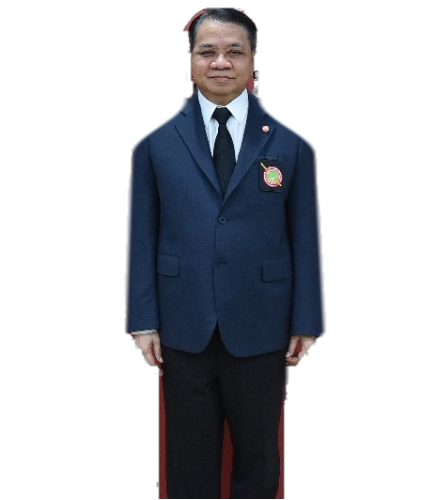
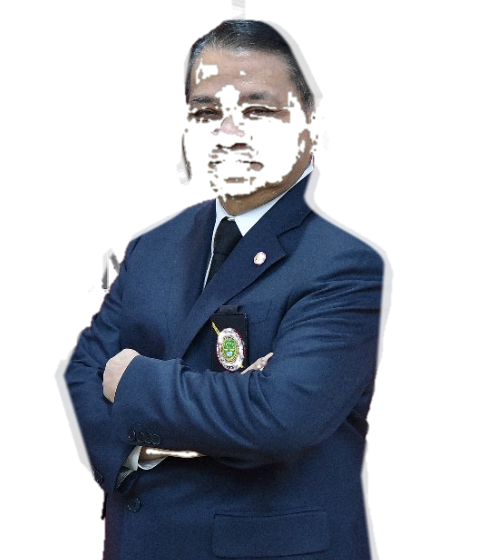
feat(ui): refine Light mode badges, mandatory white text on red, prominent top-right ThemeToggle, and new portrait cutout

diff --git a/src/app/theme-bentos.css b/src/app/theme-bentos.css
@@ -111,11 +111,29 @@ html[data-theme="light"] .bg-\[\#131317\],
 html:not([data-theme="dark"]) .bg-\[\#131317\],
 html[data-theme="light"] .bg-\[\#17171b\],
 html:not([data-theme="dark"]) .bg-\[\#17171b\],
-html[data-theme="light"] .bg-\[\#18181d\],
-html:not([data-theme="dark"]) .bg-\[\#18181d\] {
+html[data-theme="light"] .bg-\[\#16161b\],
+html:not([data-theme="dark"]) .bg-\[\#16161b\],
+html[data-theme="light"] .bg-\[\#17171c\],
+html:not([data-theme="dark"]) .bg-\[\#17171c\] {
   background-color: #ffffff !important;
   border-color: #e2e8f0 !important;
   color: #09090b !important;
+}
+
+/* Light Mode Badges, Chips, Tags & Small Action Containers (Clean & Harmonious) */
+html[data-theme="light"] .bg-\[\#18181d\],
+html:not([data-theme="dark"]) .bg-\[\#18181d\],
+html[data-theme="light"] .bg-\[\#1a1a20\],
+html:not([data-theme="dark"]) .bg-\[\#1a1a20\],
+html[data-theme="light"] .bg-\[\#0d0d10\],
+html:not([data-theme="dark"]) .bg-\[\#0d0d10\],
+html[data-theme="light"] span[class*="bg-white\/\[0\.0"],
+html:not([data-theme="dark"]) span[class*="bg-white\/\[0\.0"],
+html[data-theme="light"] div[class*="bg-white\/\[0\.0"],
+html:not([data-theme="dark"]) div[class*="bg-white\/\[0\.0"] {
+  background-color: #f1f5f9 !important;
+  border-color: #cbd5e1 !important;
+  color: #0f172a !important;
 }
 
 html[data-theme="light"] .cyber-card,
@@ -139,9 +157,9 @@ html:not([data-theme="dark"]) b {
   color: #09090b !important;
 }
 
-/* Neutral text override in Light Mode */
-html[data-theme="light"] .text-white:not(.text-on-accent),
-html:not([data-theme="dark"]) .text-white:not(.text-on-accent) {
+/* Neutral text override in Light Mode — NEVER target red backgrounds, buttons or pills */
+html[data-theme="light"] .text-white:not([class*="bg-[#991b1b]"]):not([class*="bg-[#c81e2b]"]):not([class*="bg-[#d62839]"]):not([class*="from-[#d62839]"]):not([class*="bg-red-"]):not([class*="bg-rose-"]):not(.cyber-pill-active):not(.badge-police-red):not(.text-on-accent),
+html:not([data-theme="dark"]) .text-white:not([class*="bg-[#991b1b]"]):not([class*="bg-[#c81e2b]"]):not([class*="bg-[#d62839]"]):not([class*="from-[#d62839]"]):not([class*="bg-red-"]):not([class*="bg-rose-"]):not(.cyber-pill-active):not(.badge-police-red):not(.text-on-accent) {
   color: #09090b !important;
 }
 
@@ -484,4 +502,78 @@ html.dark .cyber-pillar-muted {
 html[data-theme="dark"] .cyber-perf-bar,
 html.dark .cyber-perf-bar {
   fill: url(#cyberMutedBar) !important;
+}
+
+/* ==========================================================================
+   4. RED BADGES, BUTTONS & ACTIVE PILLS: MANDATORY PURE WHITE TEXT (#ffffff)
+   - Guaranteed pure crisp white text on all solid Police Red elements
+   - Fixes Light Mode badge text contrast permanently across all components
+   ========================================================================== */
+html[data-theme="light"] [class*="bg-[#991b1b]"],
+html[data-theme="light"] [class*="bg-[#c81e2b]"],
+html[data-theme="light"] [class*="bg-[#d62839]"],
+html[data-theme="light"] [class*="from-[#d62839]"],
+html[data-theme="light"] [class*="bg-red-6"],
+html[data-theme="light"] [class*="bg-red-7"],
+html[data-theme="light"] [class*="bg-red-8"],
+html[data-theme="light"] [class*="bg-rose-6"],
+html[data-theme="light"] [class*="bg-rose-7"],
+html[data-theme="light"] .cyber-pill-active,
+html[data-theme="light"] .badge-police-red,
+html:not([data-theme="dark"]) [class*="bg-[#991b1b]"],
+html:not([data-theme="dark"]) [class*="bg-[#c81e2b]"],
+html:not([data-theme="dark"]) [class*="bg-[#d62839]"],
+html:not([data-theme="dark"]) [class*="from-[#d62839]"],
+html:not([data-theme="dark"]) [class*="bg-red-6"],
+html:not([data-theme="dark"]) [class*="bg-red-7"],
+html:not([data-theme="dark"]) [class*="bg-red-8"],
+html:not([data-theme="dark"]) [class*="bg-rose-6"],
+html:not([data-theme="dark"]) [class*="bg-rose-7"],
+html:not([data-theme="dark"]) .cyber-pill-active,
+html:not([data-theme="dark"]) .badge-police-red,
+html[data-theme="light"] [class*="bg-[#991b1b]"] *,
+html[data-theme="light"] [class*="bg-[#c81e2b]"] *,
+html[data-theme="light"] [class*="bg-[#d62839]"] *,
+html[data-theme="light"] [class*="from-[#d62839]"] *,
+html[data-theme="light"] [class*="bg-red-6"] *,
+html[data-theme="light"] [class*="bg-red-7"] *,
+html[data-theme="light"] [class*="bg-red-8"] *,
+html[data-theme="light"] [class*="bg-rose-6"] *,
+html[data-theme="light"] [class*="bg-rose-7"] *,
+html[data-theme="light"] .cyber-pill-active *,
+html[data-theme="light"] .badge-police-red *,
+html:not([data-theme="dark"]) [class*="bg-[#991b1b]"] *,
+html:not([data-theme="dark"]) [class*="bg-[#c81e2b]"] *,
+html:not([data-theme="dark"]) [class*="bg-[#d62839]"] *,
+html:not([data-theme="dark"]) [class*="from-[#d62839]"] *,
+html:not([data-theme="dark"]) [class*="bg-red-6"] *,
+html:not([data-theme="dark"]) [class*="bg-red-7"] *,
+html:not([data-theme="dark"]) [class*="bg-red-8"] *,
+html:not([data-theme="dark"]) [class*="bg-rose-6"] *,
+html:not([data-theme="dark"]) [class*="bg-rose-7"] *,
+html:not([data-theme="dark"]) .cyber-pill-active *,
+html:not([data-theme="dark"]) .badge-police-red * {
+  color: #ffffff !important;
+}
+
+html[data-theme="light"] [class*="bg-[#991b1b]"] svg,
+html[data-theme="light"] [class*="bg-[#c81e2b]"] svg,
+html[data-theme="light"] [class*="bg-[#d62839]"] svg,
+html[data-theme="light"] [class*="from-[#d62839]"] svg,
+html[data-theme="light"] [class*="bg-red-6"] svg,
+html[data-theme="light"] [class*="bg-red-7"] svg,
+html[data-theme="light"] [class*="bg-red-8"] svg,
+html[data-theme="light"] .cyber-pill-active svg,
+html[data-theme="light"] .badge-police-red svg,
+html:not([data-theme="dark"]) [class*="bg-[#991b1b]"] svg,
+html:not([data-theme="dark"]) [class*="bg-[#c81e2b]"] svg,
+html:not([data-theme="dark"]) [class*="bg-[#d62839]"] svg,
+html:not([data-theme="dark"]) [class*="from-[#d62839]"] svg,
+html:not([data-theme="dark"]) [class*="bg-red-6"] svg,
+html:not([data-theme="dark"]) [class*="bg-red-7"] svg,
+html:not([data-theme="dark"]) [class*="bg-red-8"] svg,
+html:not([data-theme="dark"]) .cyber-pill-active svg,
+html:not([data-theme="dark"]) .badge-police-red svg {
+  color: #ffffff !important;
+  stroke: #ffffff !important;
 }

diff --git a/src/components/ThemeToggle.tsx b/src/components/ThemeToggle.tsx
@@ -81,19 +81,19 @@ export function ThemeToggle({ className = "", showLabel = false }: ThemeTogglePr
       title={isLight ? "สลับเป็นโหมดมืด (Dark Mode)" : "สลับเป็นโหมดสว่าง (Light Mode)"}
       className={`theme-toggle-btn inline-flex items-center justify-center gap-1.5 rounded-full border transition-all duration-200 focus-visible:outline-2 focus-visible:outline-[#c81e2b] ${
         isLight
-          ? "border-slate-300 bg-white text-slate-800 hover:border-slate-400 hover:bg-slate-100 shadow-sm"
-          : "border-white/10 bg-[#121215] text-zinc-300 hover:border-white/20 hover:text-white shadow-sm"
-      } ${showLabel ? "px-3 py-1.5 text-xs font-semibold" : "h-9 w-9"} ${className}`}
+          ? "border-slate-300 bg-white text-slate-900 font-bold hover:border-slate-400 hover:bg-slate-100 shadow-sm"
+          : "border-white/20 bg-[#16161b] text-white font-bold hover:border-white/30 hover:bg-[#202026] shadow-sm"
+      } ${showLabel ? "px-3 py-1.5 text-xs" : "h-9 w-9"} ${className}`}
     >
       {isLight ? (
         <>
-          <Sun size={16} className="text-amber-600 transition-transform duration-200 hover:rotate-45" aria-hidden="true" />
-          {showLabel && <span>โหมดสว่าง</span>}
+          <Sun size={15} className="text-amber-500 transition-transform duration-200 hover:rotate-45 shrink-0" aria-hidden="true" />
+          {showLabel && <span className="tracking-wide">โหมดสว่าง</span>}
         </>
       ) : (
         <>
-          <Moon size={15} className="text-zinc-300 transition-transform duration-200 hover:-rotate-12" aria-hidden="true" />
-          {showLabel && <span>โหมดมืด</span>}
+          <Moon size={14} className="text-sky-300 transition-transform duration-200 hover:-rotate-12 shrink-0" aria-hidden="true" />
+          {showLabel && <span className="tracking-wide">โหมดมืด</span>}
         </>
       )}
     </button>

diff --git a/src/components/TopHeader.tsx b/src/components/TopHeader.tsx
@@ -30,14 +30,14 @@ export function TopHeader({
       <div className="flex min-w-0 flex-1 items-center gap-x-4 self-stretch lg:gap-x-6">
         <Link
           href="/dashboard"
-          className="hidden xl:flex xl:items-center xl:gap-2.5 xl:border-r xl:border-white/[0.08] xl:pr-5 group"
+          className="hidden xl:flex xl:items-center xl:gap-3 xl:border-r xl:border-white/[0.08] xl:pr-5 group"
         >
-          <span className="relative h-8 w-8 shrink-0 overflow-hidden rounded-full bg-[#991b1b] ring-1 ring-white/20">
+          <span className="relative h-10 w-10 shrink-0 overflow-hidden rounded-full bg-[#991b1b] ring-2 ring-white/20">
             <Image
               src={OWNER_PHOTO}
               alt={OWNER_NAME}
               fill
-              sizes="32px"
+              sizes="40px"
               className="rounded-full object-cover object-[50%_15%]"
             />
           </span>
@@ -62,7 +62,6 @@ export function TopHeader({
           />
         </form>
         <div className="flex items-center gap-x-2.5 lg:gap-x-3.5">
-          <ThemeToggle />
           <Link
             href="/analysis"
             className="hidden sm:inline-flex items-center gap-1.5 rounded-full bg-gradient-to-b from-[#d62839] to-[#991b1b] px-4 py-1.5 text-xs font-bold text-white shadow-[0_4px_14px_rgba(185,28,28,0.4)] transition hover:brightness-110"
@@ -72,6 +71,9 @@ export function TopHeader({
           </Link>
           <div className="hidden lg:block lg:h-6 lg:w-px lg:bg-white/[0.08]" aria-hidden="true" />
           <UserMenu user={user} />
+          <div className="h-6 w-px bg-white/[0.1] dark:bg-white/[0.08]" aria-hidden="true" />
+          {/* Top-Right Corner Prominent Dark/Light Switch */}
+          <ThemeToggle showLabel className="shrink-0" />
         </div>
       </div>
     </header>

diff --git a/src/app/layout.tsx b/src/app/layout.tsx
@@ -26,11 +26,11 @@ export default async function RootLayout({
     : null;
 
   return (
-    <html lang="th" data-theme="light" suppressHydrationWarning className="h-full antialiased">
+    <html lang="th" data-theme="light" suppressHydrationWarning className="h-full antialiased light">
       <head>
         <script
           dangerouslySetInnerHTML={{
-            __html: `(function(){try{var t=localStorage.getItem('gpc-theme')||'light';document.documentElement.setAttribute('data-theme',t);if(t==='dark'){document.documentElement.classList.add('dark')}else{document.documentElement.classList.remove('dark')}}catch(e){}})();`,
+            __html: `(function(){try{var t=localStorage.getItem('gpc-theme')||'light';if(t!=='dark'){t='light';}document.documentElement.setAttribute('data-theme',t);if(t==='dark'){document.documentElement.classList.add('dark');document.documentElement.classList.remove('light');}else{document.documentElement.classList.remove('dark');document.documentElement.classList.add('light');}}catch(e){}})();`,
           }}
         />
         <link rel="preconnect" href="https://fonts.googleapis.com" />

diff --git a/src/components/Sidebar.tsx b/src/components/Sidebar.tsx
@@ -44,8 +44,8 @@ export function Sidebar({ user, onNavigate }: { user: SessionUser | null; onNavi
         onClick={onNavigate}
         className="group relative flex shrink-0 items-center gap-3 overflow-hidden rounded-2xl border border-white/[0.08] bg-[#121215] p-3 transition-colors hover:border-white/20"
       >
-        <span className="relative h-12 w-12 shrink-0 overflow-hidden rounded-full bg-[#991b1b] ring-1 ring-white/15">
-          <Image src={OWNER_PHOTO} alt="" fill sizes="96px" className="rounded-full object-cover object-[50%_15%]" />
+        <span className="relative h-14 w-14 shrink-0 overflow-hidden rounded-full bg-[#991b1b] ring-2 ring-white/20">
+          <Image src={OWNER_PHOTO} alt="" fill sizes="112px" className="rounded-full object-cover object-[50%_15%]" />
         </span>
         <span className="min-w-0">
           <span className="block text-sm font-bold leading-5 text-white">พล.ต.อ.วิเชียร พจน์โพธิ์ศรี</span>

diff --git a/src/app/dashboard/page.tsx b/src/app/dashboard/page.tsx
@@ -206,13 +206,13 @@ export default async function DashboardPage({
               )}
               <div
                 title={`${OWNER_NAME} ${OWNER_ROLE}`}
-                className="relative h-10 w-10 shrink-0 overflow-hidden rounded-full bg-[#991b1b] ring-1 ring-white/20"
+                className="relative h-12 w-12 shrink-0 overflow-hidden rounded-full bg-[#991b1b] ring-2 ring-white/20"
               >
                 <Image
                   src={OWNER_PHOTO}
                   alt={OWNER_NAME}
                   fill
-                  sizes="40px"
+                  sizes="48px"
                   className="rounded-full object-cover object-[50%_15%]"
                 />
               </div>

diff --git a/AGENTS.md b/AGENTS.md
@@ -28,15 +28,21 @@ Apply the relevant skill workflow automatically without asking the user to selec
    - ข้อมูลสถานะปัจจุบันทั้งหมดถูกสรุปไว้ที่ส่วนต้นของ `SKILL.md` และ `PROJECT_STATE.md` แล้ว
    - ชื่อระบบ/อัตลักษณ์หน้าเว็บปัจจุบัน: **`พล.ต.อ.วิเชียร พจน์โพธิ์ศรี กรรมการ ก.พ.ค.ตร.`**
    - โครงสร้างหลักที่พัฒนาเสร็จแล้ว:
-     - **ตราสัญลักษณ์ทางการ ก.พ.ค.ตร. พื้นหลังโปร่งใส (`public/logo/gpc-emblem.png` & `src/lib/owner.ts`)**: ลบข้อความ `G P C · C Y B E R` และเปลี่ยนป้ายข้อความ `กพค` เดิม เป็นตราสัญลักษณ์ทางการของ ก.พ.ค.ตร. แบบไดคัทพื้นหลังโปร่งใสคมชัด แสดงผลสวยงามสมบูรณ์ทั้งใน Light Mode และ Dark Mode
-     - **ระบบสลับโหมดสว่าง/มืด (Light/Dark Mode System) พร้อม Light Mode เป็นค่าเริ่มต้น**:
-       - **Light Mode (Default)**: พื้นหลังขาวสว่างนุ่มนวล (`#f8fafc`), การ์ดสีขาวสะอาดตา (`#ffffff`) ขอบสีเทาอ่อน (`#e2e8f0`), ตัวอักษรหัวข้อและคำเน้นเป็น **สีดำสนิทคมชัดสูง (`#09090b` / `#0f172a`)** รองลงมาเป็นสีชาร์โคลเข้ม (`#334155`), และใช้สีแดงตำรวจ (`#991b1b`) บนปุ่มคำสั่งหลัก จุดเน้น และแคปซูลเมนู
-       - **Dark Mode**: คงสไตล์ CYBER Dark Charcoal (`#0a0a0c`, `#121215`, ขอบเทาจาง, ตัวอักษรขาวคมชัด `#ffffff` และแดงตำรวจเฉพาะจุดเน้น)
-       - **ปุ่มสลับโหมด (`ThemeToggle.tsx`)**: ติดตั้งที่ TopHeader (มุมขวาบนทุกหน้า), แถบแคปซูลหน้า Dashboard และท้าย Sidebar Drawer สลับได้ทันทีและจดจำค่าใน `localStorage` (`gpc-theme`) โดยมีสคริปต์ก่อน hydrate ป้องกันจอขาวแวบ (FOUC)
-     - **ภาพบุคคลไดคัทเฉพาะตัวบุคคลบนพื้นแดงตำรวจ (`public/owner/wichian-studio-red.jpg`)**: ไดคัทเฉพาะตัวบุคคลของ **พล.ต.อ.วิเชียร พจน์โพธิ์ศรี** บนพื้นหลังสีแดงตำรวจ ปรากฏเฉพาะใน Avatar วงกลมมุมขวาบนและโปรไฟล์ส่วนหัว Sidebar
-     - **Hero Section หน้าแดชบอร์ดตามแบบแท็บเล็ต CYBER**: ด้านซ้ายเป็น Typography เรียบหรูสะอาดตา (`Data Based on all registries`, `Dashboard Overview`, `พล.ต.อ.วิเชียร พจน์โพธิ์ศรี · กรรมการ ก.พ.ค.ตร.`) ด้านขวาเป็นการ์ดพัดซ้อน 3 มิติ (`Account Insights`)
-     - **AI Harness (`shared/ai-harness.mjs` & `src/lib/ai/*`)**: Provider-neutral (ค่าเริ่มต้น DeepSeek `deepseek-v4-pro`, `store: false`, JSON Schema, ไม่มี tools/web search, ไม่มี automatic fallback), ปิดบังข้อมูลส่วนบุคคล (Pseudonymization), ตรวจ Citation Allowlist, ตัด `<think>...</think>` CoT leakage และตรวจ Stale Revision (`409 Conflict` / `STALE_REVISION`) ครบทุกเส้นทาง (`revisionGuard.ts`) โดยค่าเริ่มต้น `AI_ENABLED=false`
-     - **ระบบวิเคราะห์และร่างคำวินิจฉัย (`/analysis`)**: ครบ 6 แท็บตาม `docs/ANALYSIS-ONLY-SYSTEM-DESIGN-TH.md` พร้อมแถบสถานะ 6 ขั้นตอน, `KnowledgeRail`, แถบเช็กความพร้อมข้อมูลตั้งต้น, ปุ่มนำเข้าย่อหน้าคำร้อง/คำชี้แจงเป็นข้อกล่าวอ้าง, เครื่องคำนวณโควตาตำแหน่งว่างจริง 50%, ปุ่มแทรกถ้อยคำวินิจฉัยมาตรฐาน, ตัวอย่างหน้ากระดาษ `ร่างคำวินิจฉัยเบื้องต้น` พร้อมส่งออก `.docx` (ตรวจ SHA-256) และค้นหาเลขไทย `๐-๙` <-> `0-9`
+
+- **ปรับปรุง Light Mode และป้ายข้อความสีแดง (Light Mode & Red Badge Contrast Fix)**:
+  - แก้ไขปัญหาป้ายและชิปใน Light Mode ให้แสดงผลเป็นโทนสว่างนุ่มนวลกลมกลืนตา (`#f1f5f9` ขอบ `#cbd5e1` หรือ `#e2e8f0`) ไม่เป็นปื้นสีดำผิดเพี้ยน
+  - กำหนดให้ตัวอักษรและไอคอนทั้งหมดบนป้ายสีแดงตำรวจ ปุ่มสีแดง และแคปซูลเมนูที่แอกทีฟ (`bg-[#991b1b]`, `bg-[#c81e2b]`, `bg-[#d62839]`, `from-[#d62839]`, `bg-red-6*`, `cyber-pill-active`) เป็น **สีขาวสนิท (`#ffffff !important`)** เสมอ
+- **ปุ่มสลับ Dark/Light Mode อยู่ที่มุมขวาบนสุดของเว็บเด่นชัด**:
+  - ย้ายและปรับแต่ง `ThemeToggle` ให้ติดตั้งที่ตำแหน่งขวาสุดของ `TopHeader.tsx` (มุมขวาบนสุดของทุกหน้าจอ) มีป้ายบอกสถานะ `☀ โหมดสว่าง` / `🌙 โหมดมืด` คมชัดสูง พร้อมขอบและเงาเด่นชัด
+- **กำหนด Light Mode เป็นค่าเริ่มต้นอย่างเคร่งครัด (Strict Default Light Mode)**:
+  - กำหนด `data-theme="light"` และคลาส `light` ตั้งแต่แท็ก `<html>` ใน `layout.tsx` พร้อม pre-hydration inline script บังคับ Light Mode ยกเว้นผู้ใช้จะเลือกสลับเป็น dark ด้วยตนเอง
+- **อัปเดตภาพบุคคลใหม่จากไฟล์แนบและเพิ่มขนาดอวตาร์ 1 ระดับ**:
+  - ไดคัทตัวบุคคล **พล.ต.อ.วิเชียร พจน์โพธิ์ศรี** (ท่ายืนกอดอก) จากภาพถ่ายล่าสุด ลบฉากหลังเดิมออก วางบนพื้นแดงตำรวจ `#991b1b` (`public/owner/wichian-studio-red.jpg` และ `public/owner/wichian-cutout.png`)
+  - เพิ่มขนาดอวตาร์โปรไฟล์ขึ้น 1 ระดับทั่วทั้งระบบ:
+    - `TopHeader.tsx`: ขยายเป็น `h-10 w-10` (40px)
+    - `Sidebar.tsx`: ขยายเป็น `h-14 w-14` (56px)
+    - `dashboard/page.tsx`: ขยายเป็น `h-12 w-12` (48px)
+
    - ผลตรวจล่าสุด: `npm test` ผ่าน **83/83 ข้อ**, `analysis-app` ผ่าน **18/18 ข้อ**, `typecheck` & `lint` **0 errors**, `build` ผ่าน **35/35 routes**
 2. **กฎเหล็กเมื่อจบงานทุกครั้ง (Mandatory End-of-Task Rule)**:
    - ทุกครั้งที่ทำงานและตรวจสอบ (`npm test`, `npm run typecheck`, `npm run lint`, `npm run build`) เสร็จสิ้น:

diff --git a/SKILL.md b/SKILL.md
@@ -7,21 +7,21 @@
 > 4. **ห้าม reset หรือเขียนทับงานค้างใน `C:\APP`**: การทำงาน Git/Push ให้ทำผ่าน clean worktree (`C:\Users\polic\.codex\worktrees\ai-harness\APP`) และซิงก์เฉพาะไฟล์ที่เกี่ยวข้องกลับไปยัง `C:\APP` อย่างระมัดระวัง
 
 ### สรุปสถานะระบบล่าสุด (2026-10-20)
-- **ตราสัญลักษณ์ทางการ ก.พ.ค.ตร. พื้นหลังโปร่งใส (`public/logo/gpc-emblem.png` & `src/lib/owner.ts`)**:
-  - ลบข้อความ `G P C · C Y B E R` และเปลี่ยนป้ายข้อความ `กพค` เดิม เป็นตราสัญลักษณ์ทางการของ ก.พ.ค.ตร. แบบไดคัทพื้นหลังโปร่งใสคมชัด แสดงผลสวยงามสมบูรณ์ทั้งใน Light Mode และ Dark Mode
-- **ระบบสลับโหมดสว่าง/มืด (Light/Dark Mode System) พร้อม Light Mode เป็นค่าเริ่มต้น**:
-  - **Light Mode (Default)**: พื้นหลังขาวสว่างนุ่มนวล (`#f8fafc`), การ์ดสีขาวสะอาดตา (`#ffffff`) ขอบสีเทาอ่อน (`#e2e8f0`), ตัวอักษรหัวข้อและคำเน้นเป็น **สีดำสนิทคมชัดสูง (`#09090b` / `#0f172a`)** สบายตา คอนทราสต์สูงระดับ WCAG AAA, ข้อความรองเป็นสีชาร์โคลเข้ม (`#334155`) และสีแดงตำรวจ (`#991b1b` / `#c81e2b`) บนปุ่มคำสั่งหลัก จุดเน้น และแคปซูลเมนู
-  - **Dark Mode**: คงสไตล์ CYBER Dark Charcoal (`#0a0a0c`, `#121215`, ขอบเทาจาง, ตัวอักษรขาวคมชัด `#ffffff` และแดงตำรวจเฉพาะจุดเน้น)
-  - **ปุ่มสลับโหมด (`ThemeToggle.tsx`)**: ติดตั้งที่ TopHeader (มุมขวาบนทุกหน้า), แถบแคปซูลหน้า Dashboard และท้าย Sidebar Drawer สลับได้ทันทีและจดจำค่าใน `localStorage` (`gpc-theme`) โดยมีสคริปต์ก่อน hydrate ป้องกันจอขาวแวบ (FOUC)
-- **ชื่อระบบและอัตลักษณ์หน้าเว็บ (Branding)**: **`พล.ต.อ.วิเชียร พจน์โพธิ์ศรี กรรมการ ก.พ.ค.ตร.`** ครบทุกจุด (`Sidebar.tsx`, `TopHeader.tsx`, `dashboard/page.tsx`, `analysis/Workbench.jsx`, `login/page.tsx`, `layout.tsx`) โดยไม่มีการสร้างแท็บ/หน้า /owner แยก
-- **ภาพบุคคลไดคัทเฉพาะตัวบุคคลบนพื้นหลังสีแดงตำรวจ (`public/owner/wichian-studio-red.jpg` & `public/owner/wichian-cutout.png`)**:
-  - ไดคัทเฉพาะตัวบุคคลของ **พล.ต.อ.วิเชียร พจน์โพธิ์ศรี** บนพื้นหลังสีแดงตำรวจ (`#991b1b`) ปรากฏเฉพาะใน Avatar วงกลมมุมขวาบนและโปรไฟล์ส่วนหัว Sidebar
-- **AI Harness (`shared/ai-harness.mjs` & `src/lib/ai/*`)**:
-  - Provider-neutral รองรับ DeepSeek Responses API (`deepseek-v4-pro`), `store: false`, JSON Schema, ไม่มี tools/web search, ไม่มี automatic fallback
-  - ปิดบังข้อมูลส่วนบุคคล (Pseudonymization) + ตรวจ Citation Allowlist + ตัด `<think>...</think>` CoT leakage (`stripCotLeakage`)
-  - ตรวจ Stale Revision (`409 Conflict` / `STALE_REVISION`) ครบทุกเส้นทาง (`revisionGuard.ts`) โดยค่าเริ่มต้น `AI_ENABLED=false`
-- **ระบบวิเคราะห์และร่างคำวินิจฉัย (`/analysis`)**:
-  - ครบ 6 แท็บตาม `docs/ANALYSIS-ONLY-SYSTEM-DESIGN-TH.md` พร้อมแถบสถานะ 6 ขั้นตอน, `KnowledgeRail`, แถบเช็กความพร้อมข้อมูลตั้งต้น, เครื่องคำนวณโควตาตำแหน่งว่างจริง 50%, ปุ่มแทรกถ้อยคำวินิจฉัยมาตรฐาน, ตัวอย่างหน้ากระดาษ `ร่างคำวินิจฉัยเบื้องต้น` พร้อมส่งออก `.docx` (ตรวจ SHA-256) และค้นหาเลขไทย `๐-๙` <-> `0-9`
+
+- **ปรับปรุง Light Mode และป้ายข้อความสีแดง (Light Mode & Red Badge Contrast Fix)**:
+  - แก้ไขปัญหาป้ายและชิปใน Light Mode ให้แสดงผลเป็นโทนสว่างนุ่มนวลกลมกลืนตา (`#f1f5f9` ขอบ `#cbd5e1` หรือ `#e2e8f0`) ไม่เป็นปื้นสีดำผิดเพี้ยน
+  - กำหนดให้ตัวอักษรและไอคอนทั้งหมดบนป้ายสีแดงตำรวจ ปุ่มสีแดง และแคปซูลเมนูที่แอกทีฟ (`bg-[#991b1b]`, `bg-[#c81e2b]`, `bg-[#d62839]`, `from-[#d62839]`, `bg-red-6*`, `cyber-pill-active`) เป็น **สีขาวสนิท (`#ffffff !important`)** เสมอ
+- **ปุ่มสลับ Dark/Light Mode อยู่ที่มุมขวาบนสุดของเว็บเด่นชัด**:
+  - ย้ายและปรับแต่ง `ThemeToggle` ให้ติดตั้งที่ตำแหน่งขวาสุดของ `TopHeader.tsx` (มุมขวาบนสุดของทุกหน้าจอ) มีป้ายบอกสถานะ `☀ โหมดสว่าง` / `🌙 โหมดมืด` คมชัดสูง พร้อมขอบและเงาเด่นชัด
+- **กำหนด Light Mode เป็นค่าเริ่มต้นอย่างเคร่งครัด (Strict Default Light Mode)**:
+  - กำหนด `data-theme="light"` และคลาส `light` ตั้งแต่แท็ก `<html>` ใน `layout.tsx` พร้อม pre-hydration inline script บังคับ Light Mode ยกเว้นผู้ใช้จะเลือกสลับเป็น dark ด้วยตนเอง
+- **อัปเดตภาพบุคคลใหม่จากไฟล์แนบและเพิ่มขนาดอวตาร์ 1 ระดับ**:
+  - ไดคัทตัวบุคคล **พล.ต.อ.วิเชียร พจน์โพธิ์ศรี** (ท่ายืนกอดอก) จากภาพถ่ายล่าสุด ลบฉากหลังเดิมออก วางบนพื้นแดงตำรวจ `#991b1b` (`public/owner/wichian-studio-red.jpg` และ `public/owner/wichian-cutout.png`)
+  - เพิ่มขนาดอวตาร์โปรไฟล์ขึ้น 1 ระดับทั่วทั้งระบบ:
+    - `TopHeader.tsx`: ขยายเป็น `h-10 w-10` (40px)
+    - `Sidebar.tsx`: ขยายเป็น `h-14 w-14` (56px)
+    - `dashboard/page.tsx`: ขยายเป็น `h-12 w-12` (48px)
+
 - **ผลตรวจสอบล่าสุด**:
   - `npm test`: **ผ่าน 83/83 ข้อ**
   - `analysis-app` tests: **ผ่าน 18/18 ข้อ**

diff --git a/PROJECT_STATE.md b/PROJECT_STATE.md
@@ -1,3 +1,20 @@
+## สรุปสถานะระบบล่าสุด (2026-10-20)
+
+- **ปรับปรุง Light Mode และป้ายข้อความสีแดง (Light Mode & Red Badge Contrast Fix)**:
+  - แก้ไขปัญหาป้ายและชิปใน Light Mode ให้แสดงผลเป็นโทนสว่างนุ่มนวลกลมกลืนตา (`#f1f5f9` ขอบ `#cbd5e1` หรือ `#e2e8f0`) ไม่เป็นปื้นสีดำผิดเพี้ยน
+  - กำหนดให้ตัวอักษรและไอคอนทั้งหมดบนป้ายสีแดงตำรวจ ปุ่มสีแดง และแคปซูลเมนูที่แอกทีฟ (`bg-[#991b1b]`, `bg-[#c81e2b]`, `bg-[#d62839]`, `from-[#d62839]`, `bg-red-6*`, `cyber-pill-active`) เป็น **สีขาวสนิท (`#ffffff !important`)** เสมอ
+- **ปุ่มสลับ Dark/Light Mode อยู่ที่มุมขวาบนสุดของเว็บเด่นชัด**:
+  - ย้ายและปรับแต่ง `ThemeToggle` ให้ติดตั้งที่ตำแหน่งขวาสุดของ `TopHeader.tsx` (มุมขวาบนสุดของทุกหน้าจอ) มีป้ายบอกสถานะ `☀ โหมดสว่าง` / `🌙 โหมดมืด` คมชัดสูง พร้อมขอบและเงาเด่นชัด
+- **กำหนด Light Mode เป็นค่าเริ่มต้นอย่างเคร่งครัด (Strict Default Light Mode)**:
+  - กำหนด `data-theme="light"` และคลาส `light` ตั้งแต่แท็ก `<html>` ใน `layout.tsx` พร้อม pre-hydration inline script บังคับ Light Mode ยกเว้นผู้ใช้จะเลือกสลับเป็น dark ด้วยตนเอง
+- **อัปเดตภาพบุคคลใหม่จากไฟล์แนบและเพิ่มขนาดอวตาร์ 1 ระดับ**:
+  - ไดคัทตัวบุคคล **พล.ต.อ.วิเชียร พจน์โพธิ์ศรี** (ท่ายืนกอดอก) จากภาพถ่ายล่าสุด ลบฉากหลังเดิมออก วางบนพื้นแดงตำรวจ `#991b1b` (`public/owner/wichian-studio-red.jpg` และ `public/owner/wichian-cutout.png`)
+  - เพิ่มขนาดอวตาร์โปรไฟล์ขึ้น 1 ระดับทั่วทั้งระบบ:
+    - `TopHeader.tsx`: ขยายเป็น `h-10 w-10` (40px)
+    - `Sidebar.tsx`: ขยายเป็น `h-14 w-14` (56px)
+    - `dashboard/page.tsx`: ขยายเป็น `h-12 w-12` (48px)
+
+
 ## Official Transparent GPC Emblem & Removal of "G P C · C Y B E R" — 2026-10-20
 
 - **Removal of "G P C · C Y B E R" & Text Badge "กพค"**:
